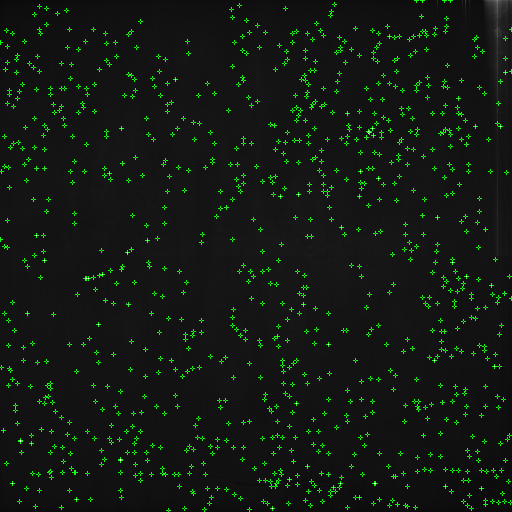
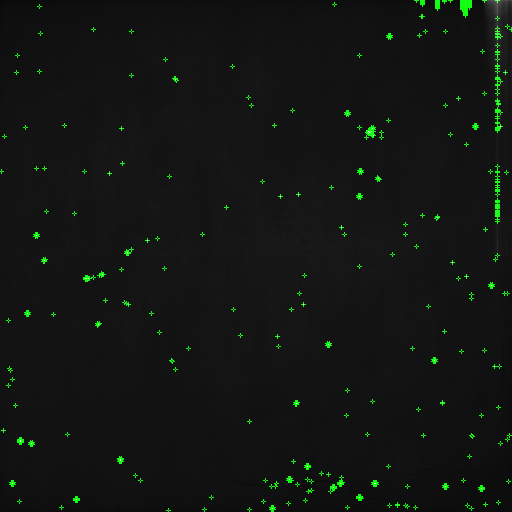
Letzte Änderungen für dem Tag.

diff --git a/.vscode/badpixel.py b/.vscode/badpixel.py
@@ -46,5 +46,5 @@ TestImage=np.array([ [[111, 65535], [121, 65535]],
 #detection.MultiPicturePixelCompare(TestImage)
 
 
-mP.markPixels(detection.advancedMovingWindow(bildDaten, 0,6)[0],bildDaten[0])
-
+#mP.markPixels(detection.advancedMovingWindow(bildDaten, 0,6)[0],bildDaten[0])
+mP.markPixels(detection.movingWindow(bildDaten[0]),bildDaten[0])
